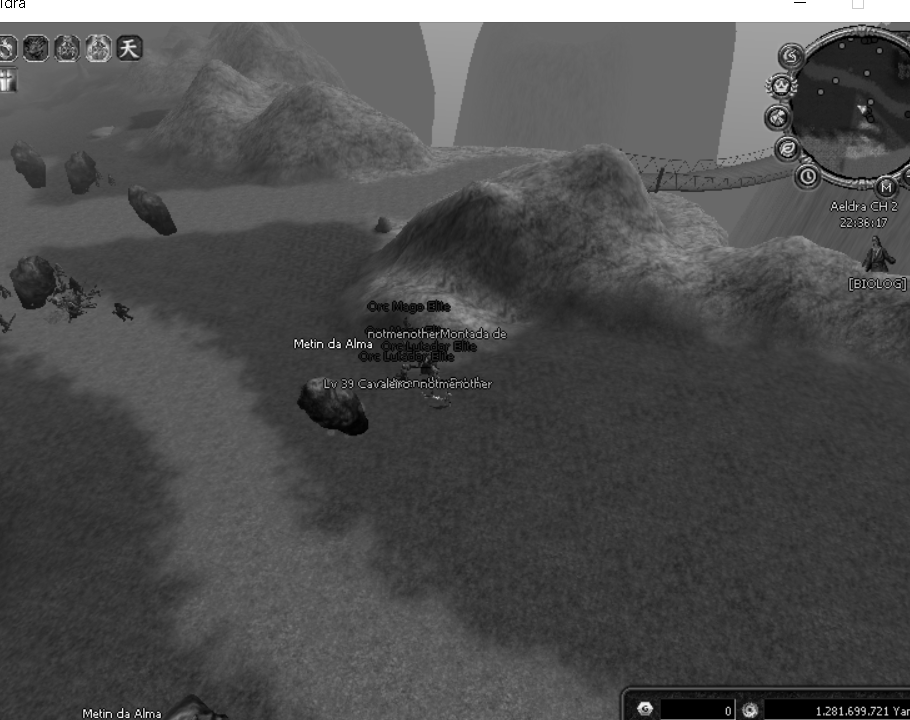
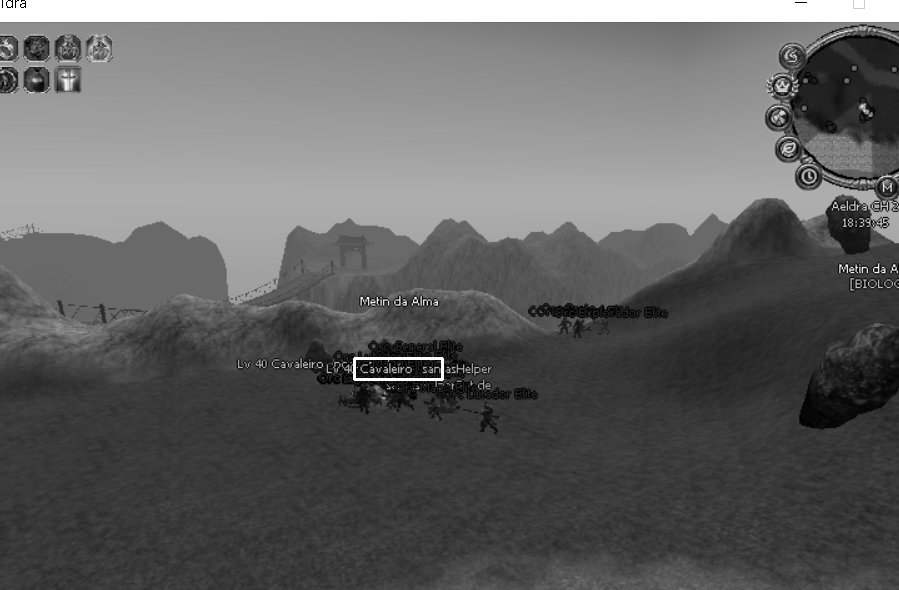
added inventory clear and how not ot hit other players metins

diff --git a/Test.py b/Test.py
@@ -12,19 +12,24 @@ deliver_button_size = 10
 market_button_size = 10
 orc_tooth_button_size = 10
 submit_button_size = 10
+trash_size = 30
 metin_health_bar_image = 'C:\\Users\\gil-t\\Downloads\\MetinBot-main\\images\\metin_hp.png'
 logged_out_image = 'C:\\Users\\gil-t\\Downloads\\MetinBot-main\\images\\logged_out_right.png'
 biologist_deliver = 'C:\\Users\\gil-t\\Downloads\\MetinBot-main\\images\\biologist\\deliver.png'
 biologist_market = 'C:\\Users\\gil-t\\Downloads\\MetinBot-main\\images\\biologist\\market.png'
 biologist_orc_tooth = 'C:\\Users\\gil-t\\Downloads\\MetinBot-main\\images\\biologist\\orc_tooth.png'
 biologist_submit = 'C:\\Users\\gil-t\\Downloads\\MetinBot-main\\images\\biologist\\submit_text.png'
+trash_1 = 'C:\\Users\\gil-t\\Downloads\\MetinBot-main\\images\\items_to_delete\\pulseira_ebano.png'
+trash_2 = 'C:\\Users\\gil-t\\Downloads\\MetinBot-main\\images\\items_to_delete\\leque_fenix.png'
+destroy_item = 'C:\\Users\\gil-t\\Downloads\\MetinBot-main\\images\\items_to_delete\\confirm_destroy.png'
+settings = 'C:\\Users\\gil-t\\Downloads\\MetinBot-main\\images\\settings.png'
+occupied_metin = 'C:\\Users\\gil-t\\Downloads\\MetinBot-main\\images\\occupied_metin.png'
 healthbarnotempty = False
 pickupkeypressed = False
 healthbar_located = False
 clients = []
 pixelcolor = (0, 0, 0)
 class Metin:
-
     def locateHealthBar():
         res=[]
         toInsert = True
@@ -47,7 +52,6 @@ class Metin:
             return res
 
     def handleLogout(clients, client):
-        print("here")
         pyautogui.moveTo(client["window_top"][0] , client["window_top"][1] , 0.2)
         autoit.mouse_click("left",client["window_top"][0], client["window_top"][1], 2)
         pydirectinput.press('f' + str(clients.index(client) + 2))
@@ -62,15 +66,13 @@ class Metin:
         pyautogui.moveTo(client["window_top"][0] , client["window_top"][1] , 0.2)
         autoit.mouse_click("left",client["window_top"][0], client["window_top"][1], 2)
         Metin.useSkills(client)
-        print("here2")
 
 
 
     def locateAllandFilterProp(client, prop_image, prop_type):
-        known_types = ["metin_health_bar" ,"logged_out", "deliver", "market", "orc_tooth", "submit"]
+        known_types = ["metin_health_bar" ,"logged_out", "deliver", "market", "orc_tooth", "submit", "trash", "destroy_item", "settings", "occupied_metin"]
         prop_locations = pyautogui.locateAllOnScreen(prop_image, confidence=0.9, grayscale=True)
         for prop_location in prop_locations:
-            print(prop_location)
             if prop_location[0] > client["healthbar"][0] and prop_location[0] < client["healthbar"][0] + 800 and prop_location[1] < client["healthbar"][1] and prop_location[1] > client["healthbar"][1] - 900:
                 if known_types.__contains__(prop_type):
                     return prop_location
@@ -120,31 +122,41 @@ class Metin:
     def findMetinOpenCV(client):
         metinhealthbarlocation = Metin.locateAllandFilterProp(client, metin_health_bar_image, "metin_health_bar")
         if metinhealthbarlocation:
+            time.sleep(1)
+            Metin.collectLoot(client)
             print("Bugged! Trying again!")
             pyautogui.keyDown('esc')
             pyautogui.keyUp('esc')
             pyautogui.keyDown('a')
             pyautogui.keyDown('s')
-            pyautogui.sleep(3)
+            pyautogui.sleep(2)
             pyautogui.keyUp('a')
             pyautogui.keyUp('s')
             pyautogui.press('q')
             pyautogui.press('q')
-            Metin.collectLoot(client)
             return False
-        screenshot = np.array(pyautogui.screenshot())[ client["healthbar"][1] - 730 : client["healthbar"][1] - 10, client["healthbar"][0] - 10 :client["healthbar"][0] + 900]
+        screenshot = np.array(pyautogui.screenshot())[ client["healthbar"][1] - 730 : client["healthbar"][1] - 140, client["healthbar"][0] - 10 :client["healthbar"][0] + 900]
         img_gray = cv.cvtColor(screenshot, cv.COLOR_BGR2GRAY)
         template = cv.imread('C:\\Users\\gil-t\\Downloads\\MetinBot-main\\images\\metin_writing.png',0)
         w, h = template.shape[::-1]
-        cv.imwrite('res.png',img_gray)
         res = cv.matchTemplate(img_gray,template,cv.TM_CCORR_NORMED)
         threshold = 0.85
         loc = np.where( res >= threshold)
         target_dist = 1000
         target = 0
+        red_pixels = 0
         for pt in zip(*loc[::-1]):
-            if(math.sqrt(abs(300 - pt[0]) + abs(400- pt[1] + h + METINTEXTDISTANCE)) < target_dist and pt[0] + w < 750 and pt[1] + h + METINTEXTDISTANCE < 700):
-                target = pt
+            if pt[0] + w < len(screenshot) and pt[1] + h + 70 < len(screenshot[0]):
+                for i in range(pt[0], pt[0] + w):
+                    for j in range(pt[1] +70, pt[1] + h+ 70):
+                        pixel = screenshot[i, j]
+                        if pixel[0] > 200 and pixel[1] < 50 and pixel[2] < 50:
+                            red_pixels += 1
+                print("Red pixels: " + str(red_pixels) + "")
+                #cv.rectangle(img_gray, (pt[0], pt[1] + 70), (pt[0] + w, pt[1] + h + 70), (255,0,0), 2)
+                #cv.imwrite('res.png',img_gray)         
+                if red_pixels < 10 and (math.sqrt(abs(300 - pt[0]) + abs(400- pt[1] + h + METINTEXTDISTANCE)) < target_dist and pt[0] + w < 750 and pt[1] + h + METINTEXTDISTANCE < 700):
+                    target = pt
         if not target:
             return False
         #for pt in zip(*loc[::-1]):
@@ -203,8 +215,6 @@ class Metin:
                 autoit.mouse_click("left",int((biologist_market_location[0] + biologist_market_location[0] + market_button_size)/2), int((biologist_market_location[1] + biologist_market_location[1] + market_button_size)/2), 2)
                 pyautogui.sleep(4)
                 biologist_orc_tooth_location = Metin.locateAllandFilterProp(client, biologist_orc_tooth, "orc_tooth")
-                for x in pyautogui.locateAllOnScreen(biologist_orc_tooth):
-                    print(x)
                 if biologist_orc_tooth_location:
                     pyautogui.moveTo(int((biologist_orc_tooth_location[0] + biologist_orc_tooth_location[0] + orc_tooth_button_size)/2) , int((biologist_orc_tooth_location[1] + biologist_orc_tooth_location[1] + orc_tooth_button_size)/2) , 0.2)
                     autoit.mouse_click("right",int((biologist_orc_tooth_location[0] + biologist_orc_tooth_location[0] + orc_tooth_button_size)/2), int((biologist_orc_tooth_location[1] + biologist_orc_tooth_location[1] + orc_tooth_button_size)/2), 2)
@@ -213,6 +223,7 @@ class Metin:
                     if biologist_submit_location:
                         pyautogui.moveTo(int((biologist_submit_location[0] + biologist_submit_location[0] + submit_button_size)/2) , int((biologist_submit_location[1] + biologist_submit_location[1] + submit_button_size)/2) , 0.2)
                         autoit.mouse_click("left",int((biologist_submit_location[0] + biologist_submit_location[0] + submit_button_size)/2), int((biologist_submit_location[1] + biologist_submit_location[1] + submit_button_size)/2), 2)
+                        client["biologist_timer"] = time.time()
                 else:
                     pyautogui.sleep(1)
                     pyautogui.moveTo(client["window_top"][0], client["window_top"][1], 0.2)
@@ -222,36 +233,80 @@ class Metin:
             pyautogui.moveTo(int((biologist_orc_tooth_location[0] + biologist_orc_tooth_location[0] + orc_tooth_button_size)/2) , int((biologist_orc_tooth_location[1] + biologist_orc_tooth_location[1] + orc_tooth_button_size)/2) , 0.2)
             autoit.mouse_click("right",int((biologist_orc_tooth_location[0] + biologist_orc_tooth_location[0] + orc_tooth_button_size)/2), int((biologist_orc_tooth_location[1] + biologist_orc_tooth_location[1] + orc_tooth_button_size)/2), 2)
             pydirectinput.press('escape')
-            client["biologist_timer"] = time.time()
+        
 
+    def clearInventory(client):
+        deleted = []
+        print("Cleaning Inventory!")
+        pydirectinput.press('i')
+        trash = Metin.locateAllandFilterProp(client, trash_1, "trash")
+        while trash and not deleted.__contains__(trash):
+            pyautogui.moveTo(int((trash[0] + trash[0] + trash_size)/2) , int((trash[1] + trash[1] + trash_size)/2) , 0.1)
+            autoit.mouse_click("left",int((trash[0] + trash[0] + trash_size)/2), int((trash[1] + trash[1] + trash_size)/2), 1)
+            pyautogui.moveTo(client["window_top"][0] + 150, client["window_top"][1] + 150, 0.1)
+            autoit.mouse_click("left",client["window_top"][0] + 150, client["window_top"][1] + 150, 1)
+            pyautogui.sleep(0.1)
+            submit = Metin.locateAllandFilterProp(client, destroy_item, "destroy_item")
+            if submit:
+                print("Item Deleted!")
+                destroy_button = int(submit[0] + 3* submit[2]/4 + 20), int(submit[1] + submit[3]/2)
+                pyautogui.moveTo(destroy_button[0], destroy_button[1] , 0.2)
+                autoit.mouse_click("left", destroy_button[0], destroy_button[1], 1)
+                pyautogui.sleep(0.4)
+                deleted.append(trash)
+                trash = Metin.locateAllandFilterProp(client, trash_1, "trash")
+        pydirectinput.press('i')
+        
+
+            
+            
     
 def run_bot():
+    
     bilogist = False
     # Locate the Healthbar for init
     healthbarlocations = 0
     while not healthbarlocations:
         healthbarlocations = Metin.locateHealthBar()
+    client_id = 0
     for location in healthbarlocations:
-        append_dict = {"healthbar": location,
+        append_dict = {"client_id" : client_id,
+                      "healthbar": location,
                       "skills_timer" : 0,
                       "bugged_timer": 0,
                       "biologist_timer": 0,
+                      "clear_inventory_timer" : 0,
+                      "not_farming_loop_counter": 0,
                       "farming": False,
                       "window_top": (location[0], location[1] - 740)
                      }
         clients.append(copy.deepcopy(append_dict))
+        client_id += 1
     while True:
         for client in clients:
+            #noticed that sometimes it doesn't loot
+            if client["not_farming_loop_counter"] > 5:
+                pydirectinput.keyDown('a')
+                pydirectinput.keyDown('s')
+                pyautogui.sleep(3)
+                pydirectinput.keyUp('a')
+                pydirectinput.keyUp('s')
+                pydirectinput.press('q')
+                pydirectinput.press('q')
+                client["not_farming_loop_counter"] = 0
             if bilogist and (time.time() - client["biologist_timer"] > 650):
                 Metin.biologist(client)
             loggout_location = Metin.locateAllandFilterProp(client, logged_out_image, "logged_out")
             if loggout_location:
-                Metin.handleLogout(clients, client)
-                
-                
+                Metin.handleLogout(clients, client) 
             pyautogui.moveTo(client["window_top"][0], client["window_top"][1], 0.2)
             autoit.mouse_click("left",client["window_top"][0], client["window_top"][1],2)
-            
+            if Metin.locateAllandFilterProp(client, settings, "settings"):
+                print("Closing Settings!")
+                pydirectinput.press('escape')
+            if(time.time() - client["clear_inventory_timer"] > 500):
+                Metin.clearInventory(client)
+                client["clear_inventory_timer"] = time.time()
             if( time.time() - client["skills_timer"] > 300):
                 client["skills_timer"] = time.time()
                 Metin.useSkills(client)
@@ -259,17 +314,19 @@ def run_bot():
             #metinhealthbarlocation = Metin.locateMetinHealthBar()
             
             if not client["farming"]:
+                client["not_farming_loop_counter"] += 1
                 if(Metin.locateAllandFilterProp(client, metin_health_bar_image, "metin_health_bar")):
+                    Metin.collectLoot(client)
                     pydirectinput.press('escape')
-                if Metin.findMetinOpenCV(client):
-                    client["bugged_timer"] = time.time()
                     pydirectinput.keyDown('a')
                     pydirectinput.keyDown('s')
-                    pyautogui.sleep(3)
+                    pyautogui.sleep(1)
                     pydirectinput.keyUp('a')
                     pydirectinput.keyUp('s')
-                    pydirectinput.press('q')
-                    pydirectinput.press('q')
+                    break
+                Metin.collectLoot(client)
+                if Metin.findMetinOpenCV(client):
+                    client["bugged_timer"] = time.time()
                     client["farming"] = True
                     break
                 else:
@@ -278,15 +335,17 @@ def run_bot():
                     break
                 #check if the metin is still alive
             if Metin.checkIfMetinStillAlive(client):
-                if(time.time() - client["bugged_timer"] > 60):
-                    
-                    pydirectinput.press('escape')
-                    pyautogui.press('d')
-                    pyautogui.press('d')
-                    print("UnBugging!")
-                    client["farming"] = False
-                    client["bugged_timer"] = time.time()
+                if(time.time() - client["bugged_timer"] > 30):
                     Metin.collectLoot(client)
+                    pydirectinput.press('escape')
+                    pydirectinput.keyDown('a')
+                    pydirectinput.keyDown('s')
+                    pyautogui.sleep(1)
+                    pydirectinput.keyUp('a')
+                    pydirectinput.keyUp('s')
+                    print("UnBugging client " + str(client["client_id"]) + "!")
+                    client["farming"] = False
+                    client["bugged_timer"] = time.time()                    
                     break
             else:
                 client["farming"] = False
@@ -296,7 +355,7 @@ def run_bot():
                 if Metin.findMetinOpenCV(client):
                     client["bugged_timer"] = time.time()
                     client["farming"] = True
-                    break
+                    
 
 
 
